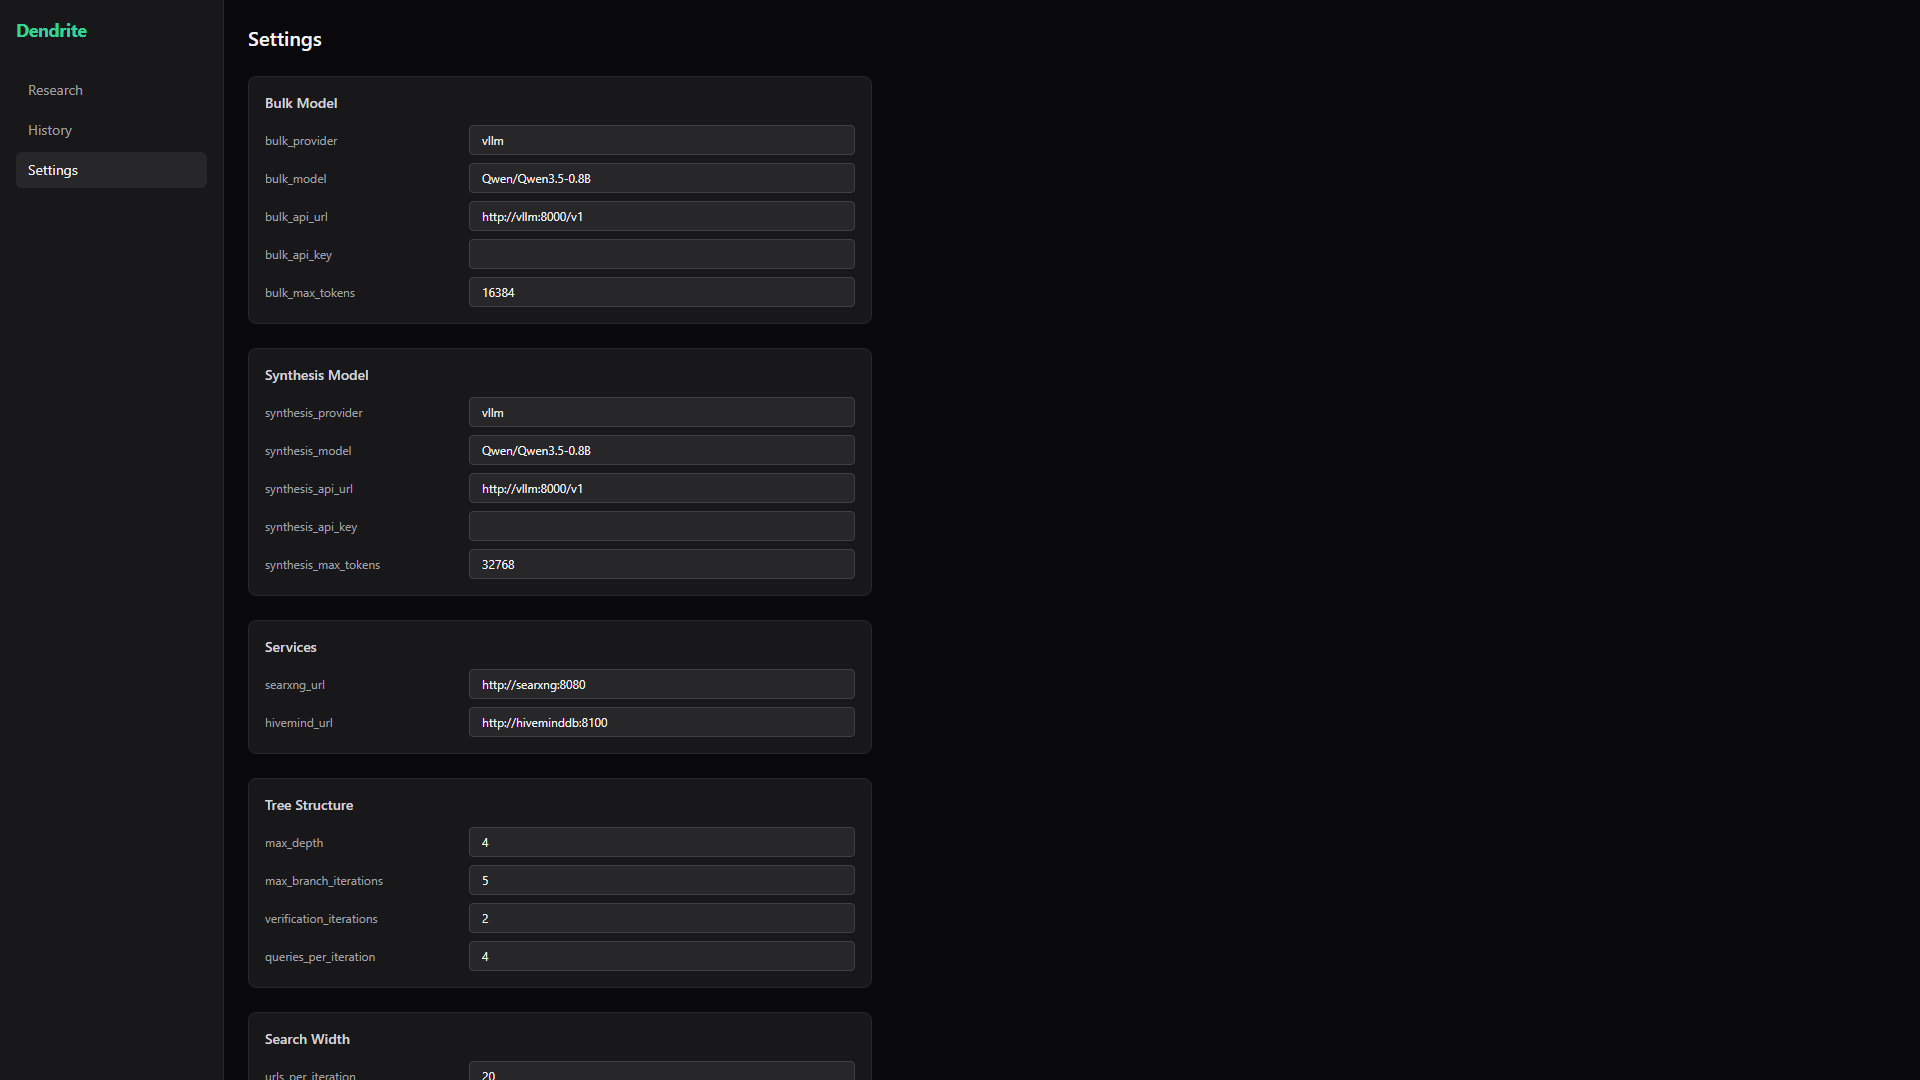
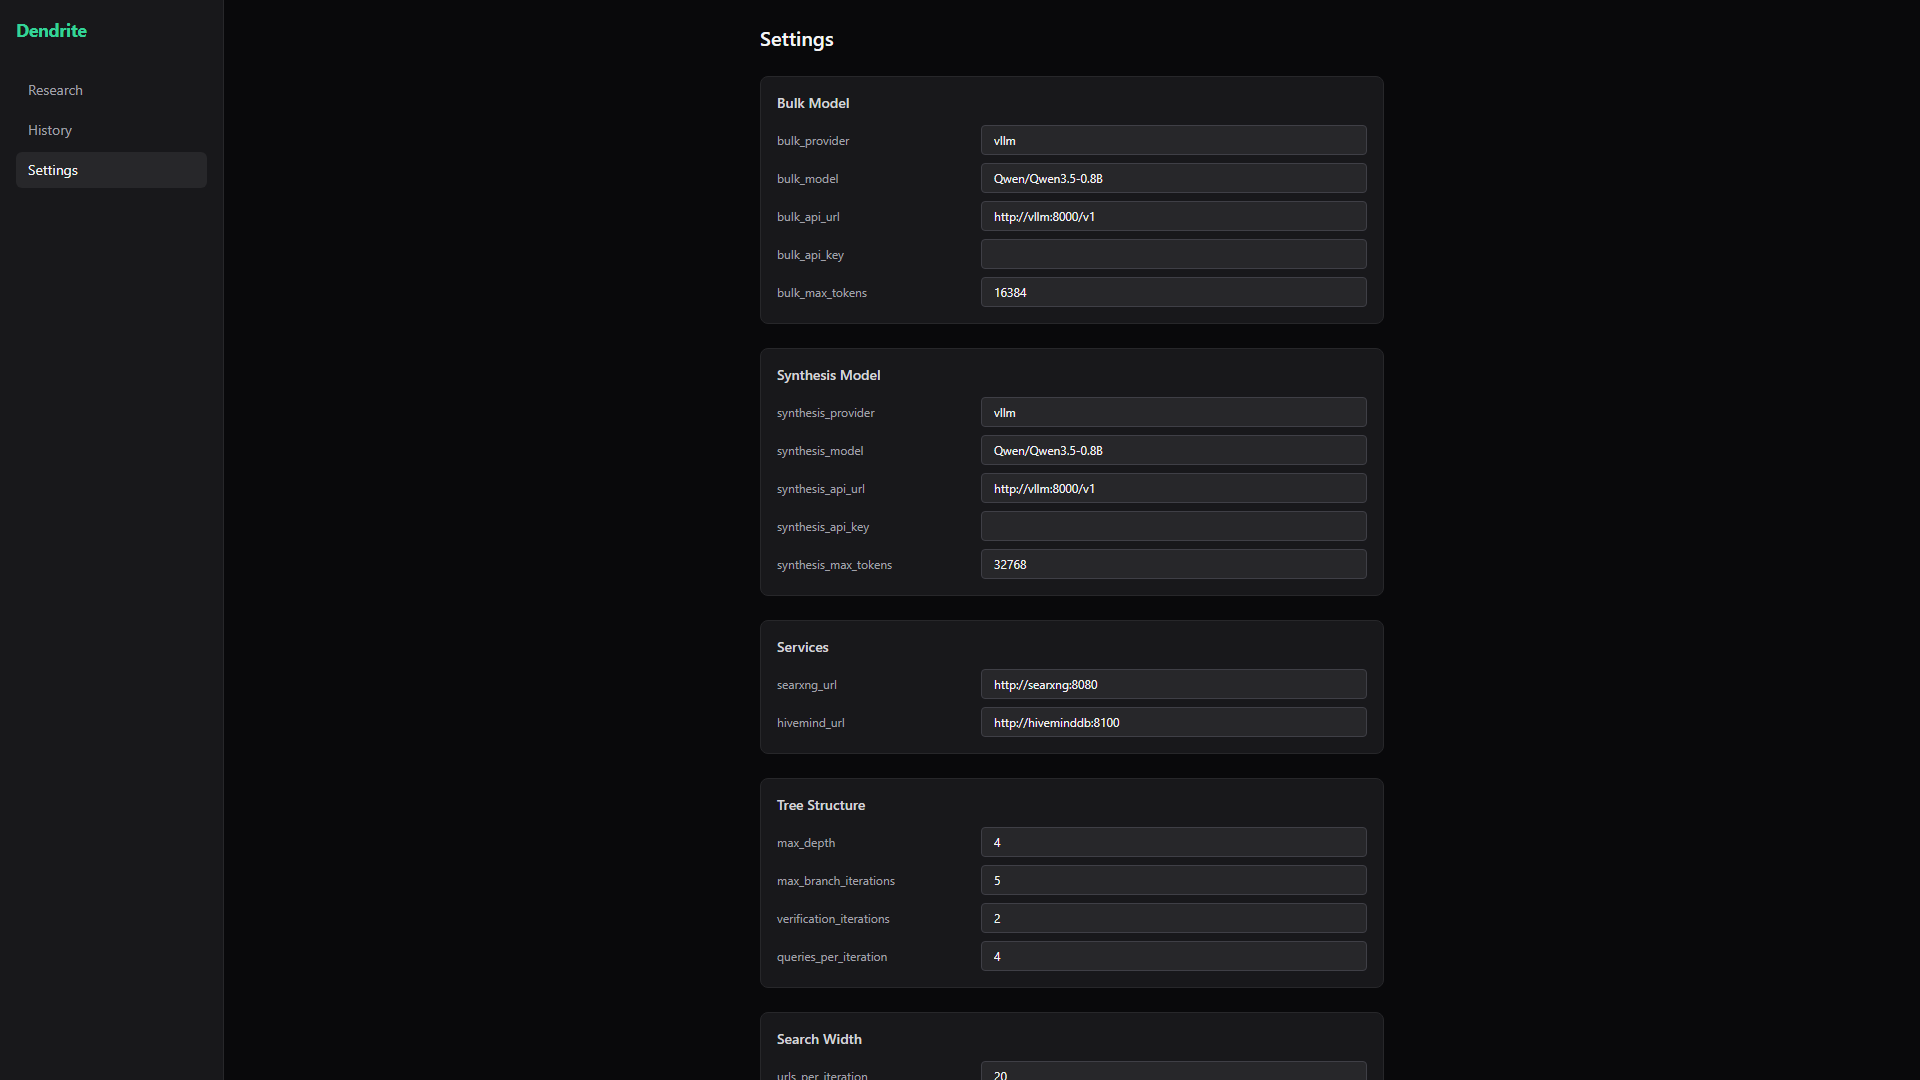
Center settings page content

diff --git a/orchestrator/frontend/src/pages/SettingsPage.tsx b/orchestrator/frontend/src/pages/SettingsPage.tsx
@@ -59,7 +59,7 @@ export default function SettingsPage() {
   ]
 
   return (
-    <div className="p-6 max-w-2xl">
+    <div className="p-6 max-w-2xl mx-auto">
       <h2 className="text-xl font-semibold mb-6">Settings</h2>
       <div className="space-y-6">
         {groups.map(group => (
